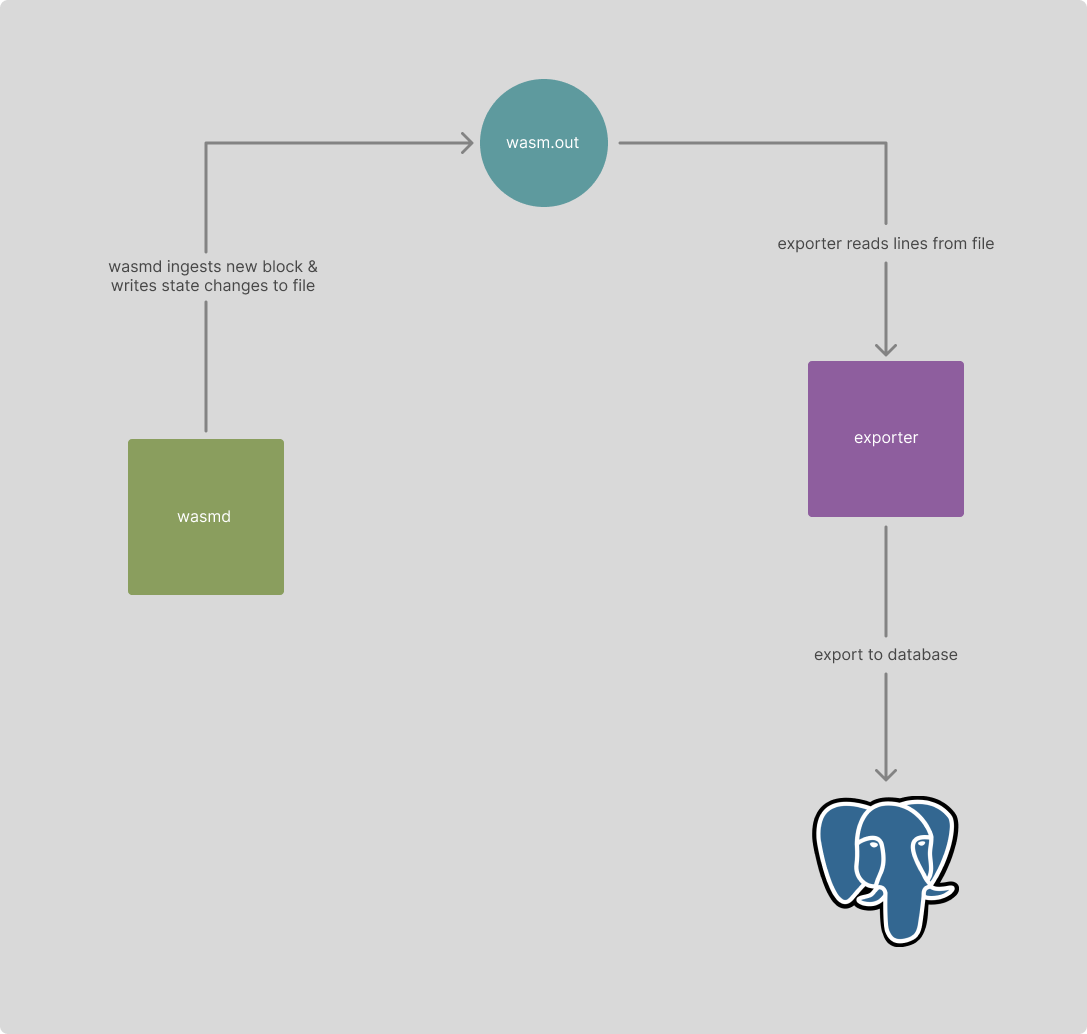
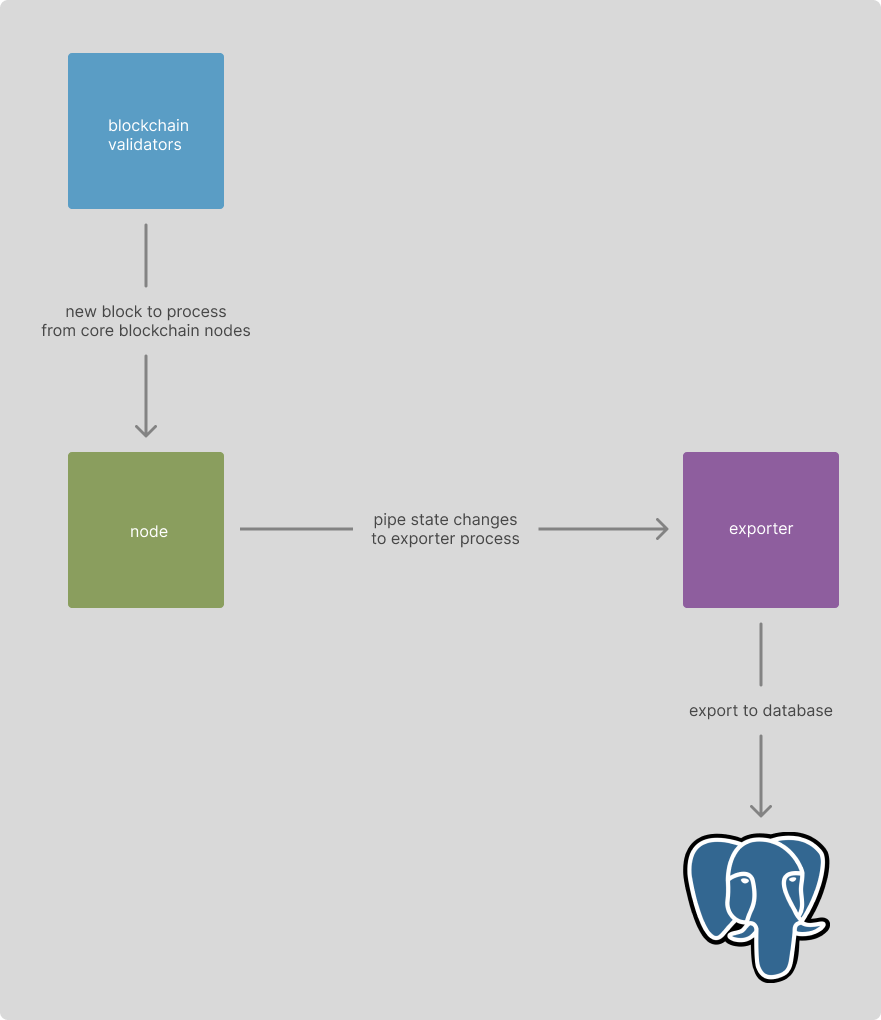
updated docs

diff --git a/docs/start.md b/docs/start.md
@@ -2,54 +2,58 @@
 
 ## Why does this exist?
 
-This indexer is designed to be used with blockchains running the Cosmos SDK that
-support smart contracts via the x/wasm module. Its critical innovation is that,
-rather than indexing the transactions and events that end up in a block and are
-made queryable by an RPC node, it indexes the _state changes_ that occur as a
-result of those transactions and events.
+This indexer is designed to be used with blockchains running the Cosmos SDK, and
+primarily those that support smart contracts via the x/wasm module. Its critical
+distinction is that it indexes the _state changes_ that occur as a result of
+transactions, instead of indexing the transactions and events that end up in a
+block and made queryable by an RPC node.
 
 ### Why index state changes instead?
 
 Transaction-based indexers can only read the inputs and outputs of on-chain
-events, i.e. wallet messages executed on a contract and the events that contract
+events, e.g. wallet messages executed on a contract and the events that contract
 responds with. They _cannot_ access the state changes that occur as a result of
 those messages, nor access data that the contract developer did not decide to
-emit in the execution events log. This is a problem for two reasons:
+emit in the execution events log.
 
-1. If a contract doesn't emit the data you want to index, you can't index it.
-2. If a contract executes another contract, you can't index the sub-execution
-   (since they don't show up in logs).
+This is a problem because a contract may not emit the data you need to index,
+and thus a transaction-based indexer cannot index it. It also means that you
+have to index every contract message in every block just to check if a specific
+contract did something you care about, since any contract can call any other
+contract. And if you want to track both historical and recent information,
+you'll need to maintain and mutate your own state based on with laborious
+event-matching code. Indexing new information in a transaction-based indexer may
+even require rescanning old blocks.
 
-One example of this is indexing the cw20 (token smart contract) balances for a
-wallet. The default cw20 implementation does not emit the resulting balance of a
-transfer—only the amount transferred. To index the balance of a wallet, you
-would have to index every single transfer message in order, from the beginning,
-and keep a running total manually. If the indexer crashes, you'll have to make
-sure to start from the same block height, and if you miss a block, the number
-will be wrong. Moreover, if a _different_ contract executes a transfer on a cw20
-contract (as part of a \_sub_message, which is one contract calling another),
-you won't be able to index that transfer at all, unless that contract decided to
-emit the transfer amount in its events too. Thus, to index the balance of a
-cw20, you would have to know every single contract that could possibly execute a
-transfer on that cw20 contract and index all of those, assuming all contracts
-also log the transfer amount. If any contract doesn't, your cw20 balances will
-always be slightly off. On a permissionless blockchain where any smart contract
-can be deployed, this essentially makes keeping track of balances impossible.
-
-This also applies to cw721 (NFT smart contract) balances. If an NFT is sent to a
-contract which performs a submessage to transfer that NFT somewhere else, the
-NFT will be lost to the indexer forever, since you can no longer follow its
-path.
+One example of this is indexing cw20 token contract balances for a wallet. The
+default cw20 implementation does not emit the resulting balance of a transfer in
+a send transaction—only the amount transferred. So to index the balance of a
+wallet, you would have to index every single transfer message in order, from the
+beginning, and keep a running total manually. If the indexer crashes, you'll
+have to make sure to start from the same block height, and if you miss a block,
+the number will be wrong. Moreover, if a _different_ contract executes a
+transfer on a cw20 contract (as part of a *sub*message, which is one contract
+calling another), you will have to check every event from every message to find
+the cw20 contract execution events, and you will only be able to detect it if
+you know exactly which contract address to look for. On a permissionless
+blockchain where any smart contract can be deployed and call any other contract,
+this essentially makes keeping track of historical cw20 balances infeasible.
 
 ## Why does DAO DAO need this?
 
 DAO DAO is an ecosystem of modular smart contracts that work together, and as
 such, there is a lot of communication between them in the form of submessages.
 For example, when a proposal is executed on a proposal module, it tells the core
-contract to execute the messages contained in the proposal. To effectively index
-this, we need to be able to access state changes that occur in all of the smart
-contracts that get executed by other contracts. Thus this state-indexer was
-born.
+contract to execute the messages contained in the proposal, and reports the
+execution status back to the proposal module. DAOs can also interact with
+arbitrary contracts and enact arbitrary authorization flows—if another contract
+is responsible for updating voting config or making proposals in the DAO, the
+frontend needs to know about it as quickly as possible.
+
+The indexer does all the hard work, making it very easy to index new contracts
+and write new queries. You write formulas to create API endpoints that can
+access any data from any contract, and it's immediately available at the latest
+block and as far back as the indexer was running.
 
 ## How does it work?
 

diff --git a/docs/formulas.md b/docs/formulas.md
@@ -18,15 +18,15 @@ Formulas are defined in the `data/formulas` directory.
 
 There are four types of formulas:
 
+- `account`
 - `contract`
 - `generic`
 - `validator`
-- `wallet`
 
 `generic` takes no address, whereas the others take an address. They are
 differentiated because they are expected to work slightly differently, though
 under the hood they are processed the same way. When using `generic` formulas,
-any address can be passed in, but it is ignored.
+any address can be passed in, and it is ignored.
 
 ## Formula Structure
 
@@ -80,6 +80,15 @@ type Env = {
   getCodeIdKeyForContract: FormulaCodeIdKeyForContractGetter
   getSlashEvents: FormulaSlashEventsGetter
   getTxEvents: FormulaTxEventsGetter
+  getBalance: FormulaBalanceGetter
+  getBalances: FormulaBalancesGetter
+  getProposal: FormulaProposalGetter
+  getProposals: FormulaProposalsGetter
+  getProposalCount: FormulaProposalCountGetter
+  getProposalVote: FormulaProposalVoteGetter
+  getProposalVotes: FormulaProposalVotesGetter
+  getProposalVoteCount: FormulaProposalVoteCountGetter
+  getCommunityPoolBalances: FormulaCommunityPoolBalancesGetter
 }
 ```
 

diff --git a/docs/architecture.md b/docs/architecture.md
@@ -6,13 +6,11 @@ There are three pieces: the indexer, the API, Meilisearch, and Soketi.
 
 ![diagram](./images/indexer.png)
 
-The indexer is composed of an instrumented blockchain binary, represented in the
-diagram above as `wasmd`, and an exporter process that runs alongside it. The
-blockchain binary is modified to emit state changes as they occur to the
-specified file (`wasm.out`), and the exporter listens for changes to the file
-and writes them to a PostgreSQL database. Each line written to the file is a
-JSON object representing a state change and its metadata, such as the contract
-and block height.
+The indexer is composed of a blockchain node running the normal binary,
+represented in the diagram above as `node`, and an exporter process that runs
+alongside it. The exporter listens for state events and writes them to a
+PostgreSQL database. Each state write is formatted as a JSON object representing
+a state change and its metadata, such as the contract and block height.
 
 Read the [exporter docs](./exporter.md) for more information on how the exporter
 works and what its responsibilities are.

diff --git a/docs/cache.md b/docs/cache.md
@@ -1,6 +1,11 @@
 # Cache
 
-The indexer relies heavily on caching to speed up queries. This document
+> _NOTE_: The cache is currently inefficient, and while it speeds up queries
+> significantly, the invalidation and revalidation logic causes the indexer to
+> fall behind. The indexer is quite fast without the cache, so we disabled it
+> for now. Fixing this would be awesome.
+
+The indexer utilizes caching to avoid unnecessary queries. This document
 explains how the cache works. The cache is represented by the
 [`Computation`](../src/db/models/Computation.ts) model in the database.
 
